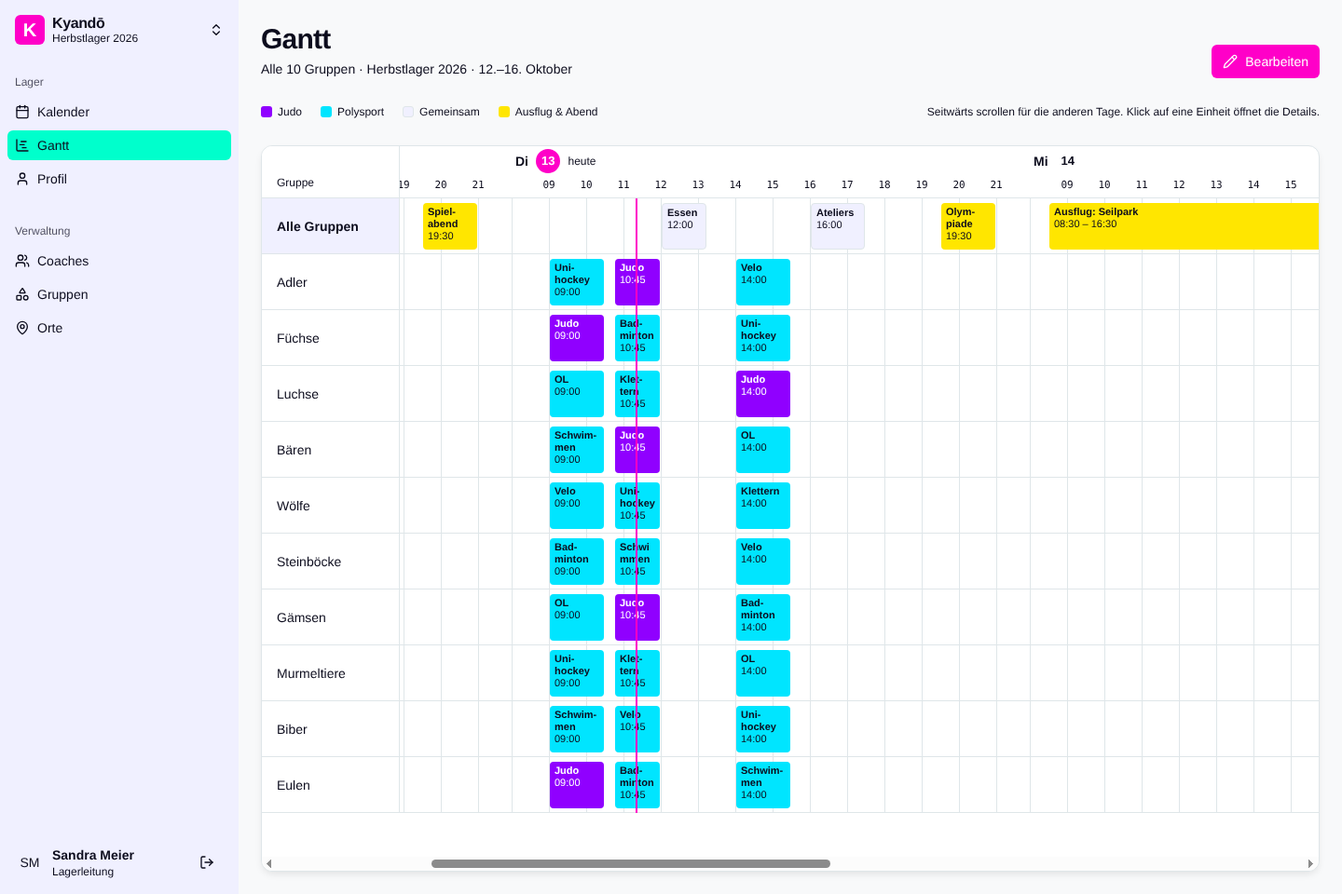
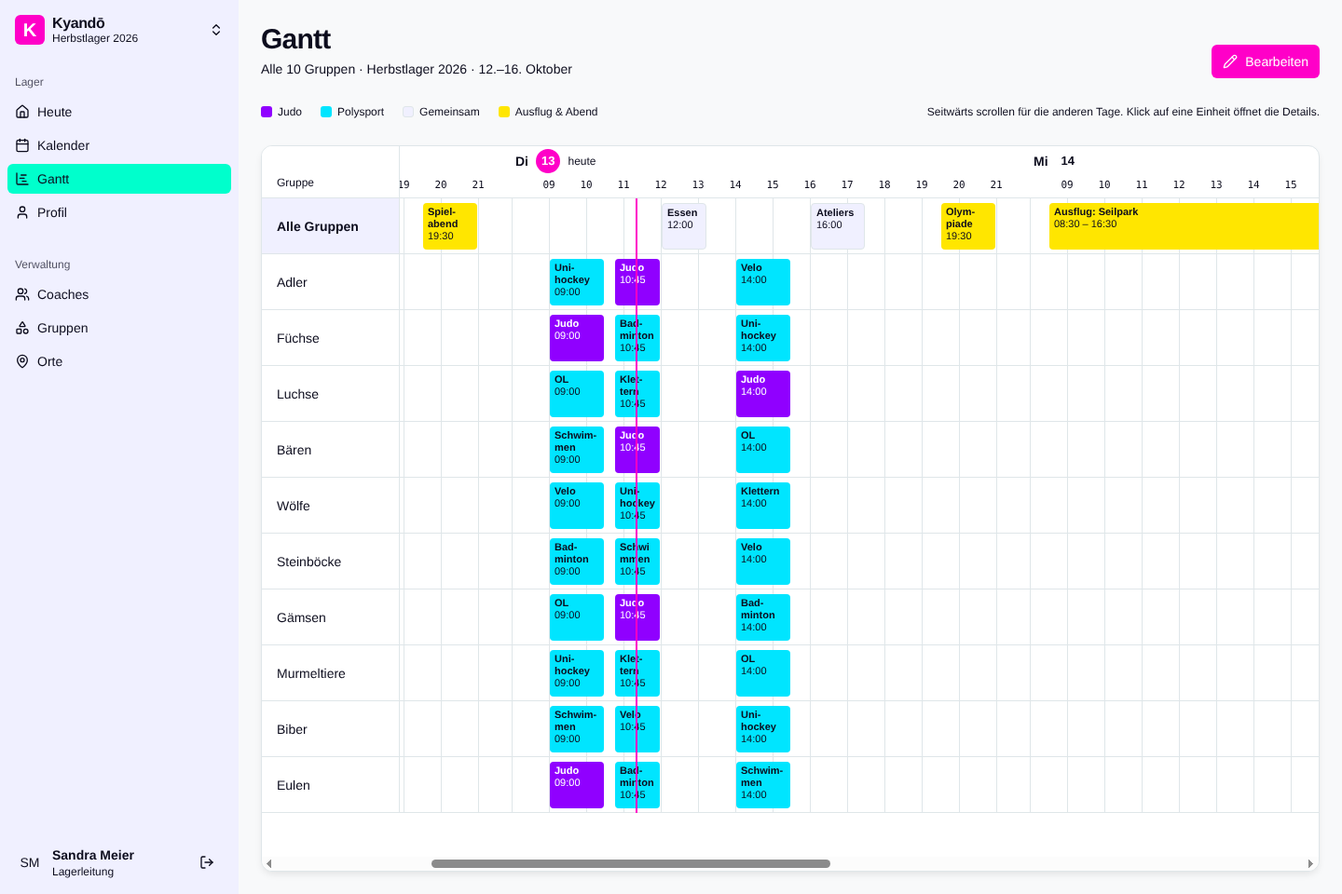
add heute screen and update other screens

Changed region(s): [[0.0, 0.125, 0.1875, 0.25], [0.0, 0.2812, 0.0625, 0.375]]

diff --git a/design/desktop/source/DesktopToday.dc.html b/design/desktop/source/DesktopToday.dc.html
@@ -1,0 +1,299 @@
+<!doctype html>
+<html lang="de">
+<head>
+<meta charset="utf-8">
+<title>Meine Einheiten heute – Laptop</title>
+<script src="./support.js"></script>
+<link rel="stylesheet" href="ds/shadcnui/tokens.css">
+<link rel="stylesheet" href="ds/shadcnui/components/bundle.css">
+<script src="ds/shadcnui/components/bundle.js"></script>
+</head>
+<body>
+<x-dc>
+<helmet>
+<link href="https://fonts.googleapis.com/css2?family=Outfit:wght@400;500;600;700;800&amp;family=Fira+Code&amp;display=swap" rel="stylesheet">
+<style>
+body{margin:0;background:var(--background);hyphens:auto;overflow-wrap:break-word}
+a{color:var(--foreground);text-decoration:none}a:hover{color:var(--foreground)}
+</style>
+</helmet>
+<div style="width: 1440px; height: 960px; overflow: hidden; background: var(--background); color: var(--foreground); font-family: var(--font-sans)">
+<x-import component-from-global-scope="ShadcnUI.SidebarProvider" style="min-height: 0; height: 960px; width: 1440px">
+
+  <x-import component-from-global-scope="ShadcnUI.Sidebar" collapsible="none" style="height: 960px; border-right: 1px solid var(--sidebar-border)">
+    <x-import component-from-global-scope="ShadcnUI.SidebarHeader">
+      <x-import component-from-global-scope="ShadcnUI.SidebarMenu">
+        <x-import component-from-global-scope="ShadcnUI.SidebarMenuItem">
+          <x-import component-from-global-scope="ShadcnUI.SidebarMenuButton" size="lg" aria-label="Lager wechseln">
+            <span aria-hidden="true" style="display: flex; align-items: center; justify-content: center; flex: none; width: 32px; height: 32px; border-radius: var(--radius-md); background: var(--primary); color: var(--primary-foreground); font-weight: 800; font-size: 20px">K</span>
+            <span style="display: flex; flex-direction: column; min-width: 0; line-height: 1.2"><span style="font-size: 16px; font-weight: 800; letter-spacing: -0.025em">Kyandō</span><span style="font-size: 12px; font-weight: 500">Herbstlager 2026</span></span>
+            <svg style="margin-left: auto" width="16" height="16" viewBox="0 0 24 24" fill="none" stroke="currentColor" stroke-width="2" stroke-linecap="round" stroke-linejoin="round" aria-hidden="true"><path d="m7 15 5 5 5-5"></path><path d="m7 9 5-5 5 5"></path></svg>
+          </x-import>
+        </x-import>
+      </x-import>
+    </x-import>
+    <x-import component-from-global-scope="ShadcnUI.SidebarContent">
+      <x-import component-from-global-scope="ShadcnUI.SidebarGroup">
+        <x-import component-from-global-scope="ShadcnUI.SidebarGroupLabel">Lager</x-import>
+        <x-import component-from-global-scope="ShadcnUI.SidebarGroupContent">
+          <x-import component-from-global-scope="ShadcnUI.SidebarMenu">
+            <x-import component-from-global-scope="ShadcnUI.SidebarMenuItem">
+              <x-import component-from-global-scope="ShadcnUI.SidebarMenuButton" is-active="{{yes}}">
+                <svg width="16" height="16" viewBox="0 0 24 24" fill="none" stroke="currentColor" stroke-width="2" stroke-linecap="round" stroke-linejoin="round" aria-hidden="true"><path d="M15 21v-8a1 1 0 0 0-1-1h-4a1 1 0 0 0-1 1v8"></path><path d="M3 10a2 2 0 0 1 .709-1.528l7-5.999a2 2 0 0 1 2.582 0l7 5.999A2 2 0 0 1 21 10v9a2 2 0 0 1-2 2H5a2 2 0 0 1-2-2z"></path></svg>
+                <span>Heute</span>
+              </x-import>
+            </x-import>
+            <x-import component-from-global-scope="ShadcnUI.SidebarMenuItem">
+              <x-import component-from-global-scope="ShadcnUI.SidebarMenuButton">
+                <svg width="16" height="16" viewBox="0 0 24 24" fill="none" stroke="currentColor" stroke-width="2" stroke-linecap="round" stroke-linejoin="round" aria-hidden="true"><path d="M8 2v4"></path><path d="M16 2v4"></path><rect width="18" height="18" x="3" y="4" rx="2"></rect><path d="M3 10h18"></path></svg>
+                <span>Kalender</span>
+              </x-import>
+            </x-import>
+            <x-import component-from-global-scope="ShadcnUI.SidebarMenuItem">
+              <x-import component-from-global-scope="ShadcnUI.SidebarMenuButton">
+                <svg width="16" height="16" viewBox="0 0 24 24" fill="none" stroke="currentColor" stroke-width="2" stroke-linecap="round" stroke-linejoin="round" aria-hidden="true"><path d="M10 6h8"></path><path d="M12 16h6"></path><path d="M3 3v16a2 2 0 0 0 2 2h16"></path><path d="M8 11h7"></path></svg>
+                <span>Gantt</span>
+              </x-import>
+            </x-import>
+            <x-import component-from-global-scope="ShadcnUI.SidebarMenuItem">
+              <x-import component-from-global-scope="ShadcnUI.SidebarMenuButton">
+                <svg width="16" height="16" viewBox="0 0 24 24" fill="none" stroke="currentColor" stroke-width="2" stroke-linecap="round" stroke-linejoin="round" aria-hidden="true"><path d="M19 21v-2a4 4 0 0 0-4-4H9a4 4 0 0 0-4 4v2"></path><circle cx="12" cy="7" r="4"></circle></svg>
+                <span>Profil</span>
+              </x-import>
+            </x-import>
+          </x-import>
+        </x-import>
+      </x-import>
+      <x-import component-from-global-scope="ShadcnUI.SidebarGroup">
+        <x-import component-from-global-scope="ShadcnUI.SidebarGroupLabel">Verwaltung</x-import>
+        <x-import component-from-global-scope="ShadcnUI.SidebarGroupContent">
+          <x-import component-from-global-scope="ShadcnUI.SidebarMenu">
+            <x-import component-from-global-scope="ShadcnUI.SidebarMenuItem">
+              <x-import component-from-global-scope="ShadcnUI.SidebarMenuButton">
+                <svg width="16" height="16" viewBox="0 0 24 24" fill="none" stroke="currentColor" stroke-width="2" stroke-linecap="round" stroke-linejoin="round" aria-hidden="true"><path d="M16 21v-2a4 4 0 0 0-4-4H6a4 4 0 0 0-4 4v2"></path><circle cx="9" cy="7" r="4"></circle><path d="M22 21v-2a4 4 0 0 0-3-3.87"></path><path d="M16 3.13a4 4 0 0 1 0 7.75"></path></svg>
+                <span>Coaches</span>
+              </x-import>
+            </x-import>
+            <x-import component-from-global-scope="ShadcnUI.SidebarMenuItem">
+              <x-import component-from-global-scope="ShadcnUI.SidebarMenuButton">
+                <svg width="16" height="16" viewBox="0 0 24 24" fill="none" stroke="currentColor" stroke-width="2" stroke-linecap="round" stroke-linejoin="round" aria-hidden="true"><path d="M8.3 10a.7.7 0 0 1-.626-1.079L11.4 3a.7.7 0 0 1 1.198-.043L16.3 8.9a.7.7 0 0 1-.572 1.1Z"></path><rect x="3" y="14" width="7" height="7" rx="1"></rect><circle cx="17.5" cy="17.5" r="3.5"></circle></svg>
+                <span>Gruppen</span>
+              </x-import>
+            </x-import>
+            <x-import component-from-global-scope="ShadcnUI.SidebarMenuItem">
+              <x-import component-from-global-scope="ShadcnUI.SidebarMenuButton">
+                <svg width="16" height="16" viewBox="0 0 24 24" fill="none" stroke="currentColor" stroke-width="2" stroke-linecap="round" stroke-linejoin="round" aria-hidden="true"><path d="M20 10c0 4.993-5.539 10.193-7.399 11.799a1 1 0 0 1-1.202 0C9.539 20.193 4 14.993 4 10a8 8 0 0 1 16 0"></path><circle cx="12" cy="10" r="3"></circle></svg>
+                <span>Orte</span>
+              </x-import>
+            </x-import>
+          </x-import>
+        </x-import>
+      </x-import>
+    </x-import>
+    <x-import component-from-global-scope="ShadcnUI.SidebarFooter">
+      <div style="display: flex; align-items: center; gap: 8px; padding: 8px">
+        <x-import component-from-global-scope="ShadcnUI.Avatar"><x-import component-from-global-scope="ShadcnUI.AvatarFallback">SM</x-import></x-import>
+        <div style="display: flex; flex-direction: column; min-width: 0; flex: 1; font-size: 14px; line-height: 20px"><span style="font-weight: 600">Sandra Meier</span><span style="font-size: 12px; line-height: 16px">Lagerleitung</span></div>
+        <x-import component-from-global-scope="ShadcnUI.Button" variant="ghost" size="icon" aria-label="Abmelden">
+          <svg width="16" height="16" viewBox="0 0 24 24" fill="none" stroke="currentColor" stroke-width="2" stroke-linecap="round" stroke-linejoin="round" aria-hidden="true"><path d="M9 21H5a2 2 0 0 1-2-2V5a2 2 0 0 1 2-2h4"></path><polyline points="16 17 21 12 16 7"></polyline><line x1="21" x2="9" y1="12" y2="12"></line></svg>
+        </x-import>
+      </div>
+    </x-import>
+  </x-import>
+
+  <main style="flex: 1; min-width: 0; height: 960px; overflow: auto; box-sizing: border-box; padding: 24px 32px 32px; display: flex; flex-direction: column; gap: 24px">
+
+    <div style="display: flex; align-items: flex-end; justify-content: space-between; gap: 16px">
+      <div style="display: flex; flex-direction: column; gap: 4px; min-width: 0">
+        <p style="margin: 0; font-size: 14px; line-height: 20px; font-weight: 500">Dienstag, 13. Oktober · Tag 2 von 5</p>
+        <h1 style="margin: 0; font-size: 30px; line-height: 36px; font-weight: 800; letter-spacing: -0.025em">Meine Einheiten heute</h1>
+        <p style="margin: 0; font-size: 14px; line-height: 20px">6 Einheiten · 2 erledigt · Herbstlager 2026</p>
+      </div>
+      <span style="font-size: 12px; line-height: 16px; font-weight: 500">Zuletzt aktualisiert um 11:18</span>
+    </div>
+
+    <div style="display: grid; grid-template-columns: minmax(0, 3fr) minmax(0, 2fr); gap: 24px; align-items: start">
+
+      <div style="display: flex; flex-direction: column; gap: 24px">
+        <a href="DesktopDetails.dc.html" aria-label="Aktuelle Einheit: Klettern – Details öffnen" style="display: block">
+          <x-import component-from-global-scope="ShadcnUI.Card">
+            <x-import component-from-global-scope="ShadcnUI.CardHeader">
+              <div style="display: flex; align-items: center; gap: 8px; flex-wrap: wrap">
+                <x-import component-from-global-scope="ShadcnUI.Badge">Jetzt</x-import>
+                <span style="font-size: 14px; line-height: 20px; font-weight: 600">10:45 – 12:00</span>
+                <span style="font-size: 14px; line-height: 20px; margin-left: auto">noch 40 Min.</span>
+              </div>
+              <x-import component-from-global-scope="ShadcnUI.CardTitle" style="font-size: 24px; line-height: 32px">Klettern</x-import>
+            </x-import>
+            <x-import component-from-global-scope="ShadcnUI.CardContent">
+              <ul style="list-style: none; margin: 0; padding: 0; display: grid; grid-template-columns: repeat(3, minmax(0, 1fr)); gap: 16px; font-size: 14px; line-height: 20px">
+                <li style="display: flex; align-items: flex-start; gap: 10px">
+                  <svg width="18" height="18" viewBox="0 0 24 24" fill="none" stroke="currentColor" stroke-width="2" stroke-linecap="round" stroke-linejoin="round" aria-hidden="true" style="flex: none; margin-top: 1px"><path d="M20 10c0 4.993-5.539 10.193-7.399 11.799a1 1 0 0 1-1.202 0C9.539 20.193 4 14.993 4 10a8 8 0 0 1 16 0"></path><circle cx="12" cy="10" r="3"></circle></svg>
+                  <span><span style="font-weight: 600">Kletterwand</span><br>Sportzentrum Sonnenberg</span>
+                </li>
+                <li style="display: flex; align-items: flex-start; gap: 10px">
+                  <svg width="18" height="18" viewBox="0 0 24 24" fill="none" stroke="currentColor" stroke-width="2" stroke-linecap="round" stroke-linejoin="round" aria-hidden="true" style="flex: none; margin-top: 1px"><path d="M16 21v-2a4 4 0 0 0-4-4H6a4 4 0 0 0-4 4v2"></path><circle cx="9" cy="7" r="4"></circle><path d="M22 21v-2a4 4 0 0 0-3-3.87"></path><path d="M16 3.13a4 4 0 0 1 0 7.75"></path></svg>
+                  <span><span style="font-weight: 600">Gruppe Luchse</span><br>11 Kinder, 10–12 Jahre</span>
+                </li>
+                <li style="display: flex; align-items: flex-start; gap: 10px">
+                  <svg width="18" height="18" viewBox="0 0 24 24" fill="none" stroke="currentColor" stroke-width="2" stroke-linecap="round" stroke-linejoin="round" aria-hidden="true" style="flex: none; margin-top: 1px"><path d="M19 21v-2a4 4 0 0 0-4-4H9a4 4 0 0 0-4 4v2"></path><circle cx="12" cy="7" r="4"></circle></svg>
+                  <span><span style="font-weight: 600">Mit Nico Frei</span><br>Polysport-Coach</span>
+                </li>
+              </ul>
+            </x-import>
+            <x-import component-from-global-scope="ShadcnUI.CardFooter">
+              <div style="display: flex; align-items: center; justify-content: space-between; width: 100%; padding-top: 12px; border-top: 1px solid var(--border); font-size: 14px; line-height: 20px; font-weight: 500">
+                <span>Details und Hinweise</span>
+                <svg width="16" height="16" viewBox="0 0 24 24" fill="none" stroke="currentColor" stroke-width="2" stroke-linecap="round" stroke-linejoin="round" aria-hidden="true"><path d="m9 18 6-6-6-6"></path></svg>
+              </div>
+            </x-import>
+          </x-import>
+        </a>
+
+        <section aria-labelledby="d-next-h" style="display: flex; flex-direction: column; gap: 8px">
+          <div style="display: flex; align-items: baseline; justify-content: space-between">
+            <h2 id="d-next-h" style="margin: 0; font-size: 18px; line-height: 28px; font-weight: 600">Als Nächstes</h2>
+            <span style="font-size: 14px; line-height: 20px; font-weight: 500">in 40 Min.</span>
+          </div>
+          <a href="DesktopDetails.dc.html" style="display: block">
+            <x-import component-from-global-scope="ShadcnUI.Item" variant="outline" size="sm">
+              <x-import component-from-global-scope="ShadcnUI.ItemMedia">
+                <div style="width: 48px; display: flex; flex-direction: column; font-size: 14px; line-height: 20px"><span style="font-weight: 600">12:00</span><span style="font-size: 12px; line-height: 16px">13:15</span></div>
+              </x-import>
+              <x-import component-from-global-scope="ShadcnUI.ItemContent">
+                <x-import component-from-global-scope="ShadcnUI.ItemTitle">Mittagessen (Aufsicht)</x-import>
+                <x-import component-from-global-scope="ShadcnUI.ItemDescription">Mensa · Alle Gruppen</x-import>
+              </x-import>
+              <x-import component-from-global-scope="ShadcnUI.ItemActions">
+                <svg width="16" height="16" viewBox="0 0 24 24" fill="none" stroke="currentColor" stroke-width="2" stroke-linecap="round" stroke-linejoin="round" aria-hidden="true"><path d="m9 18 6-6-6-6"></path></svg>
+              </x-import>
+            </x-import>
+          </a>
+        </section>
+
+        <div style="display: grid; grid-template-columns: repeat(2, minmax(0, 1fr)); gap: 24px; align-items: start">
+          <section aria-labelledby="d-later-h" style="display: flex; flex-direction: column; gap: 8px">
+            <h2 id="d-later-h" style="margin: 0; font-size: 18px; line-height: 28px; font-weight: 600">Später heute</h2>
+            <a href="DesktopDetails.dc.html" style="display: block">
+              <x-import component-from-global-scope="ShadcnUI.Item" variant="outline" size="sm">
+                <x-import component-from-global-scope="ShadcnUI.ItemMedia">
+                  <div style="width: 48px; display: flex; flex-direction: column; font-size: 14px; line-height: 20px"><span style="font-weight: 600">16:00</span><span style="font-size: 12px; line-height: 16px">17:30</span></div>
+                </x-import>
+                <x-import component-from-global-scope="ShadcnUI.ItemContent">
+                  <x-import component-from-global-scope="ShadcnUI.ItemTitle">Ateliers nach Wahl (Leitung)</x-import>
+                  <x-import component-from-global-scope="ShadcnUI.ItemDescription">Ganzes Gelände · Alle Gruppen</x-import>
+                </x-import>
+              </x-import>
+            </a>
+            <a href="DesktopDetails.dc.html" style="display: block">
+              <x-import component-from-global-scope="ShadcnUI.Item" variant="outline" size="sm">
+                <x-import component-from-global-scope="ShadcnUI.ItemMedia">
+                  <div style="width: 48px; display: flex; flex-direction: column; font-size: 14px; line-height: 20px"><span style="font-weight: 600">19:30</span><span style="font-size: 12px; line-height: 16px">21:00</span></div>
+                </x-import>
+                <x-import component-from-global-scope="ShadcnUI.ItemContent">
+                  <x-import component-from-global-scope="ShadcnUI.ItemTitle">Abendprogramm: Lagerolympiade</x-import>
+                  <x-import component-from-global-scope="ShadcnUI.ItemDescription">Sportplatz Nord · Alle Gruppen</x-import>
+                </x-import>
+              </x-import>
+            </a>
+          </section>
+
+          <section aria-labelledby="d-done-h" style="display: flex; flex-direction: column; gap: 8px">
+            <h2 id="d-done-h" style="margin: 0; font-size: 18px; line-height: 28px; font-weight: 600">Erledigt</h2>
+            <div style="display: flex; flex-direction: column; gap: 8px; opacity: 0.6">
+              <x-import component-from-global-scope="ShadcnUI.Item" variant="muted" size="sm">
+                <x-import component-from-global-scope="ShadcnUI.ItemMedia">
+                  <div style="width: 48px; font-size: 14px; line-height: 20px; font-weight: 600">08:00</div>
+                </x-import>
+                <x-import component-from-global-scope="ShadcnUI.ItemContent">
+                  <x-import component-from-global-scope="ShadcnUI.ItemTitle">Morgenbesprechung</x-import>
+                  <x-import component-from-global-scope="ShadcnUI.ItemDescription">Leiterzimmer · Alle Coaches</x-import>
+                </x-import>
+                <x-import component-from-global-scope="ShadcnUI.ItemActions">
+                  <svg width="16" height="16" viewBox="0 0 24 24" fill="none" stroke="currentColor" stroke-width="2" stroke-linecap="round" stroke-linejoin="round" role="img" aria-label="Erledigt"><path d="M20 6 9 17l-5-5"></path></svg>
+                </x-import>
+              </x-import>
+              <x-import component-from-global-scope="ShadcnUI.Item" variant="muted" size="sm">
+                <x-import component-from-global-scope="ShadcnUI.ItemMedia">
+                  <div style="width: 48px; font-size: 14px; line-height: 20px; font-weight: 600">09:00</div>
+                </x-import>
+                <x-import component-from-global-scope="ShadcnUI.ItemContent">
+                  <x-import component-from-global-scope="ShadcnUI.ItemTitle">Orientierungslauf</x-import>
+                  <x-import component-from-global-scope="ShadcnUI.ItemDescription">Wald Sonnenberg · Gruppe Luchse</x-import>
+                </x-import>
+                <x-import component-from-global-scope="ShadcnUI.ItemActions">
+                  <svg width="16" height="16" viewBox="0 0 24 24" fill="none" stroke="currentColor" stroke-width="2" stroke-linecap="round" stroke-linejoin="round" role="img" aria-label="Erledigt"><path d="M20 6 9 17l-5-5"></path></svg>
+                </x-import>
+              </x-import>
+            </div>
+          </section>
+        </div>
+      </div>
+
+      <x-import component-from-global-scope="ShadcnUI.Card">
+        <x-import component-from-global-scope="ShadcnUI.CardHeader">
+          <x-import component-from-global-scope="ShadcnUI.CardTitle">Im Lager gerade</x-import>
+          <x-import component-from-global-scope="ShadcnUI.CardDescription">10:45 – 12:00 · alle 10 Gruppen</x-import>
+          <x-import component-from-global-scope="ShadcnUI.CardAction">
+            <a href="DesktopGantt.dc.html" class="{{ganttCls}}">Im Gantt</a>
+          </x-import>
+        </x-import>
+        <x-import component-from-global-scope="ShadcnUI.CardContent">
+          <ul aria-label="Was jede Gruppe gerade macht" style="list-style: none; margin: 0; padding: 0; display: flex; flex-direction: column">
+            <sc-for list="{{now}}" as="r" hint-placeholder-count="10">
+              <li style="border-top: 1px solid var(--border)">
+                <a href="DesktopDetails.dc.html" style="display: grid; grid-template-columns: 104px minmax(0, 1fr) auto; align-items: center; gap: 12px; min-height: 44px; padding: 4px 8px; border-radius: var(--radius-md); background: {{r.rowBg}}">
+                  <span style="font-size: 14px; line-height: 20px; font-weight: 600">{{r.group}}</span>
+                  <span style="display: flex; align-items: center; gap: 8px; min-width: 0">
+                    <span role="img" aria-label="{{r.catName}}" style="flex: none; display: flex; align-items: center; justify-content: center; width: 22px; height: 22px; box-sizing: border-box; border-radius: var(--radius-sm); background: {{r.bg}}; color: {{r.fg}}; border: {{r.bd}}; font-size: 11px; font-weight: 700">{{r.letter}}</span>
+                    <span style="display: flex; flex-direction: column; min-width: 0; font-size: 14px; line-height: 18px"><span style="font-weight: 500">{{r.title}}</span><span style="font-size: 12px; line-height: 16px">{{r.loc}}</span></span>
+                  </span>
+                  <sc-if value="{{r.mine}}" hint-placeholder-val="{{false}}">
+                    <x-import component-from-global-scope="ShadcnUI.Badge" variant="outline">Meine</x-import>
+                  </sc-if>
+                </a>
+              </li>
+            </sc-for>
+          </ul>
+        </x-import>
+        <x-import component-from-global-scope="ShadcnUI.CardFooter">
+          <p style="margin: 0; padding-top: 12px; width: 100%; border-top: 1px solid var(--border); font-size: 14px; line-height: 20px"><span style="font-weight: 600">Danach:</span> 12:00 – 13:15 Mittagessen · Mensa · Alle Gruppen</p>
+        </x-import>
+      </x-import>
+    </div>
+  </main>
+</x-import>
+</div>
+</x-dc>
+<script type="text/x-dc" data-dc-script data-props='{"$preview":{"width":1440,"height":960}}'>
+class Component extends DCLogic {
+  renderVals() {
+    var ui = window.ShadcnUI || {};
+    var bv = ui.buttonVariants || function () { return ''; };
+    var CAT = {
+      judo: { bg: 'var(--chart-2)', fg: 'var(--primary-foreground)', bd: 'none', letter: 'J', name: 'Judo' },
+      poly: { bg: 'var(--chart-3)', fg: 'var(--accent-foreground)', bd: 'none', letter: 'P', name: 'Polysport' }
+    };
+    // What every group does right now (Tuesday 10:45–12:00), the same sample data as the Gantt.
+    var NOW = [
+      ['Adler', 'judo', 'Judo: Fallschule', 'Dojo (Halle B)'],
+      ['Füchse', 'poly', 'Badminton', 'Dreifachturnhalle'],
+      ['Luchse', 'poly', 'Klettern', 'Kletterwand', true],
+      ['Bären', 'judo', 'Judo: Spiele', 'Dojo (Halle A)'],
+      ['Wölfe', 'poly', 'Unihockey', 'Dreifachturnhalle'],
+      ['Steinböcke', 'poly', 'Schwimmen', 'Hallenbad'],
+      ['Gämsen', 'judo', 'Judo', 'Dojo (Halle A)'],
+      ['Murmeltiere', 'poly', 'Klettern', 'Kletterwand'],
+      ['Biber', 'poly', 'Velo-Parcours', 'Sportplatz Nord'],
+      ['Eulen', 'poly', 'Badminton', 'Dreifachturnhalle']
+    ];
+    var now = NOW.map(function (r) {
+      var c = CAT[r[1]];
+      return { group: r[0], title: r[2], loc: r[3], mine: !!r[4], bg: c.bg, fg: c.fg, bd: c.bd, letter: c.letter, catName: c.name, rowBg: r[4] ? 'var(--muted)' : 'transparent' };
+    });
+    return { yes: true, now: now, ganttCls: bv({ variant: 'outline', size: 'sm' }) };
+  }
+}
+</script>
+</body>
+</html>

diff --git a/design/desktop/source/DesktopDetails.dc.html b/design/desktop/source/DesktopDetails.dc.html
@@ -38,6 +38,12 @@ a{color:var(--foreground);text-decoration:none}a:hover{color:var(--foreground)}
         <x-import component-from-global-scope="ShadcnUI.SidebarGroupContent">
           <x-import component-from-global-scope="ShadcnUI.SidebarMenu">
             <x-import component-from-global-scope="ShadcnUI.SidebarMenuItem">
+              <x-import component-from-global-scope="ShadcnUI.SidebarMenuButton">
+                <svg width="16" height="16" viewBox="0 0 24 24" fill="none" stroke="currentColor" stroke-width="2" stroke-linecap="round" stroke-linejoin="round" aria-hidden="true"><path d="M15 21v-8a1 1 0 0 0-1-1h-4a1 1 0 0 0-1 1v8"></path><path d="M3 10a2 2 0 0 1 .709-1.528l7-5.999a2 2 0 0 1 2.582 0l7 5.999A2 2 0 0 1 21 10v9a2 2 0 0 1-2 2H5a2 2 0 0 1-2-2z"></path></svg>
+                <span>Heute</span>
+              </x-import>
+            </x-import>
+            <x-import component-from-global-scope="ShadcnUI.SidebarMenuItem">
               <x-import component-from-global-scope="ShadcnUI.SidebarMenuButton" is-active="{{yes}}">
                 <svg width="16" height="16" viewBox="0 0 24 24" fill="none" stroke="currentColor" stroke-width="2" stroke-linecap="round" stroke-linejoin="round" aria-hidden="true"><path d="M8 2v4"></path><path d="M16 2v4"></path><rect width="18" height="18" x="3" y="4" rx="2"></rect><path d="M3 10h18"></path></svg>
                 <span>Kalender</span>

diff --git a/design/desktop/source/DesktopEdit.dc.html b/design/desktop/source/DesktopEdit.dc.html
@@ -38,6 +38,12 @@ a{color:var(--foreground);text-decoration:none}a:hover{color:var(--foreground)}
         <x-import component-from-global-scope="ShadcnUI.SidebarGroupContent">
           <x-import component-from-global-scope="ShadcnUI.SidebarMenu">
             <x-import component-from-global-scope="ShadcnUI.SidebarMenuItem">
+              <x-import component-from-global-scope="ShadcnUI.SidebarMenuButton">
+                <svg width="16" height="16" viewBox="0 0 24 24" fill="none" stroke="currentColor" stroke-width="2" stroke-linecap="round" stroke-linejoin="round" aria-hidden="true"><path d="M15 21v-8a1 1 0 0 0-1-1h-4a1 1 0 0 0-1 1v8"></path><path d="M3 10a2 2 0 0 1 .709-1.528l7-5.999a2 2 0 0 1 2.582 0l7 5.999A2 2 0 0 1 21 10v9a2 2 0 0 1-2 2H5a2 2 0 0 1-2-2z"></path></svg>
+                <span>Heute</span>
+              </x-import>
+            </x-import>
+            <x-import component-from-global-scope="ShadcnUI.SidebarMenuItem">
               <x-import component-from-global-scope="ShadcnUI.SidebarMenuButton" is-active="{{yes}}">
                 <svg width="16" height="16" viewBox="0 0 24 24" fill="none" stroke="currentColor" stroke-width="2" stroke-linecap="round" stroke-linejoin="round" aria-hidden="true"><path d="M8 2v4"></path><path d="M16 2v4"></path><rect width="18" height="18" x="3" y="4" rx="2"></rect><path d="M3 10h18"></path></svg>
                 <span>Kalender</span>

diff --git a/design/desktop/source/DesktopWeek.dc.html b/design/desktop/source/DesktopWeek.dc.html
@@ -38,6 +38,12 @@ a{color:inherit;text-decoration:none}a:hover{color:inherit}
         <x-import component-from-global-scope="ShadcnUI.SidebarGroupContent">
           <x-import component-from-global-scope="ShadcnUI.SidebarMenu">
             <x-import component-from-global-scope="ShadcnUI.SidebarMenuItem">
+              <x-import component-from-global-scope="ShadcnUI.SidebarMenuButton">
+                <svg width="16" height="16" viewBox="0 0 24 24" fill="none" stroke="currentColor" stroke-width="2" stroke-linecap="round" stroke-linejoin="round" aria-hidden="true"><path d="M15 21v-8a1 1 0 0 0-1-1h-4a1 1 0 0 0-1 1v8"></path><path d="M3 10a2 2 0 0 1 .709-1.528l7-5.999a2 2 0 0 1 2.582 0l7 5.999A2 2 0 0 1 21 10v9a2 2 0 0 1-2 2H5a2 2 0 0 1-2-2z"></path></svg>
+                <span>Heute</span>
+              </x-import>
+            </x-import>
+            <x-import component-from-global-scope="ShadcnUI.SidebarMenuItem">
               <x-import component-from-global-scope="ShadcnUI.SidebarMenuButton" is-active="{{yes}}">
                 <svg width="16" height="16" viewBox="0 0 24 24" fill="none" stroke="currentColor" stroke-width="2" stroke-linecap="round" stroke-linejoin="round" aria-hidden="true"><path d="M8 2v4"></path><path d="M16 2v4"></path><rect width="18" height="18" x="3" y="4" rx="2"></rect><path d="M3 10h18"></path></svg>
                 <span>Kalender</span>

diff --git a/design/desktop/source/DesktopGantt.dc.html b/design/desktop/source/DesktopGantt.dc.html
@@ -39,6 +39,12 @@ a{color:inherit;text-decoration:none}a:hover{color:inherit}
           <x-import component-from-global-scope="ShadcnUI.SidebarMenu">
             <x-import component-from-global-scope="ShadcnUI.SidebarMenuItem">
               <x-import component-from-global-scope="ShadcnUI.SidebarMenuButton">
+                <svg width="16" height="16" viewBox="0 0 24 24" fill="none" stroke="currentColor" stroke-width="2" stroke-linecap="round" stroke-linejoin="round" aria-hidden="true"><path d="M15 21v-8a1 1 0 0 0-1-1h-4a1 1 0 0 0-1 1v8"></path><path d="M3 10a2 2 0 0 1 .709-1.528l7-5.999a2 2 0 0 1 2.582 0l7 5.999A2 2 0 0 1 21 10v9a2 2 0 0 1-2 2H5a2 2 0 0 1-2-2z"></path></svg>
+                <span>Heute</span>
+              </x-import>
+            </x-import>
+            <x-import component-from-global-scope="ShadcnUI.SidebarMenuItem">
+              <x-import component-from-global-scope="ShadcnUI.SidebarMenuButton">
                 <svg width="16" height="16" viewBox="0 0 24 24" fill="none" stroke="currentColor" stroke-width="2" stroke-linecap="round" stroke-linejoin="round" aria-hidden="true"><path d="M8 2v4"></path><path d="M16 2v4"></path><rect width="18" height="18" x="3" y="4" rx="2"></rect><path d="M3 10h18"></path></svg>
                 <span>Kalender</span>
               </x-import>

diff --git a/design/desktop/source/DesktopProfile.dc.html b/design/desktop/source/DesktopProfile.dc.html
@@ -39,6 +39,12 @@ a{color:var(--foreground)}a:hover{color:var(--foreground)}
           <x-import component-from-global-scope="ShadcnUI.SidebarMenu">
             <x-import component-from-global-scope="ShadcnUI.SidebarMenuItem">
               <x-import component-from-global-scope="ShadcnUI.SidebarMenuButton">
+                <svg width="16" height="16" viewBox="0 0 24 24" fill="none" stroke="currentColor" stroke-width="2" stroke-linecap="round" stroke-linejoin="round" aria-hidden="true"><path d="M15 21v-8a1 1 0 0 0-1-1h-4a1 1 0 0 0-1 1v8"></path><path d="M3 10a2 2 0 0 1 .709-1.528l7-5.999a2 2 0 0 1 2.582 0l7 5.999A2 2 0 0 1 21 10v9a2 2 0 0 1-2 2H5a2 2 0 0 1-2-2z"></path></svg>
+                <span>Heute</span>
+              </x-import>
+            </x-import>
+            <x-import component-from-global-scope="ShadcnUI.SidebarMenuItem">
+              <x-import component-from-global-scope="ShadcnUI.SidebarMenuButton">
                 <svg width="16" height="16" viewBox="0 0 24 24" fill="none" stroke="currentColor" stroke-width="2" stroke-linecap="round" stroke-linejoin="round" aria-hidden="true"><path d="M8 2v4"></path><path d="M16 2v4"></path><rect width="18" height="18" x="3" y="4" rx="2"></rect><path d="M3 10h18"></path></svg>
                 <span>Kalender</span>
               </x-import>
